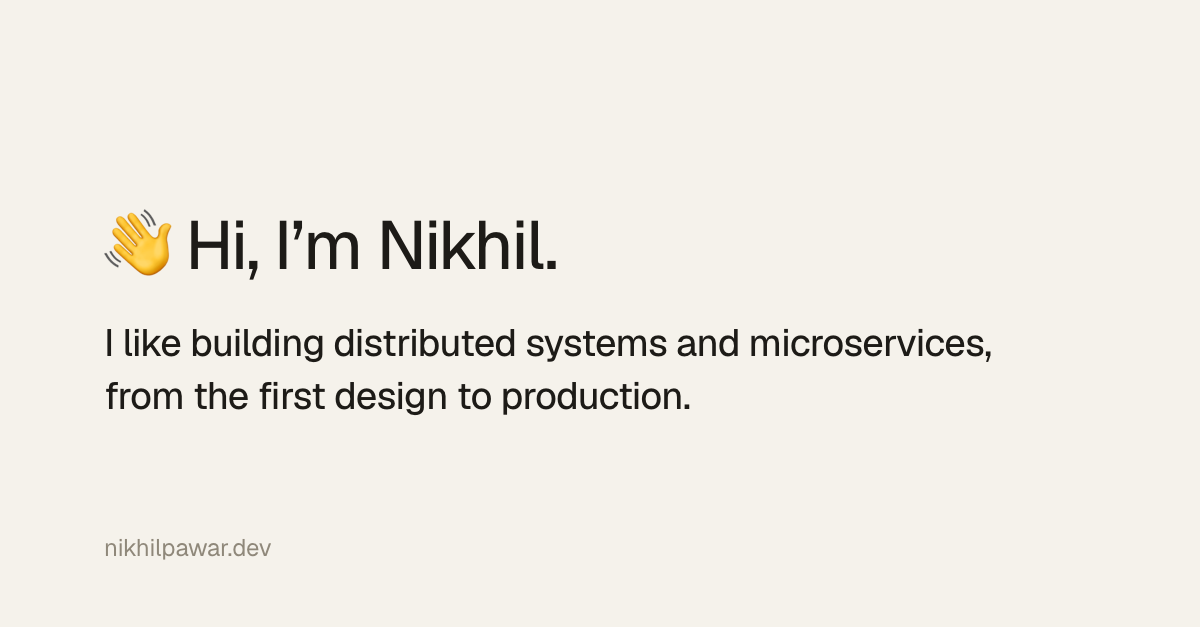
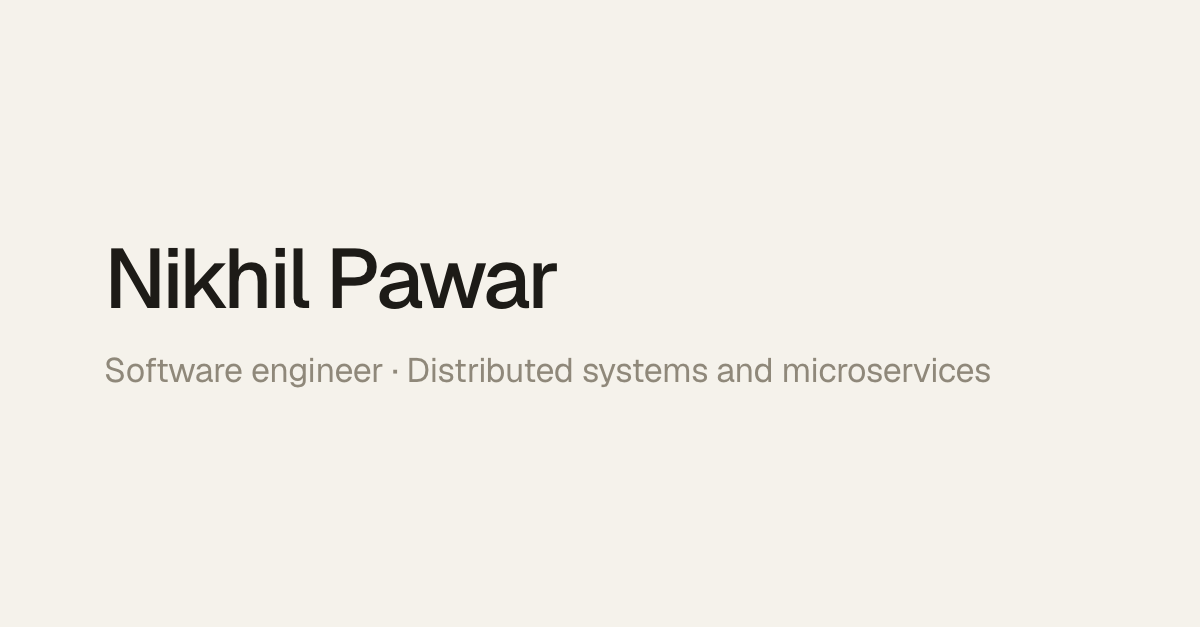
Make the preview card the name and one line

Changed region(s): [[0.0925, 0.3333, 0.8325, 0.6667], [0.0925, 0.8485, 0.2158, 0.9091]]

diff --git a/index.html b/index.html
@@ -16,7 +16,7 @@
 <meta property="og:image" content="https://nikhilpawar.dev/link-card.png">
 <meta property="og:image:width" content="1200">
 <meta property="og:image:height" content="627">
-<meta property="og:image:alt" content="Hi, I’m Nikhil. I like building distributed systems and microservices, from the first design to production.">
+<meta property="og:image:alt" content="Nikhil Pawar, software engineer: distributed systems and microservices">
 <meta name="twitter:card" content="summary_large_image">
 <meta name="twitter:image" content="https://nikhilpawar.dev/link-card.png">
 <script>
